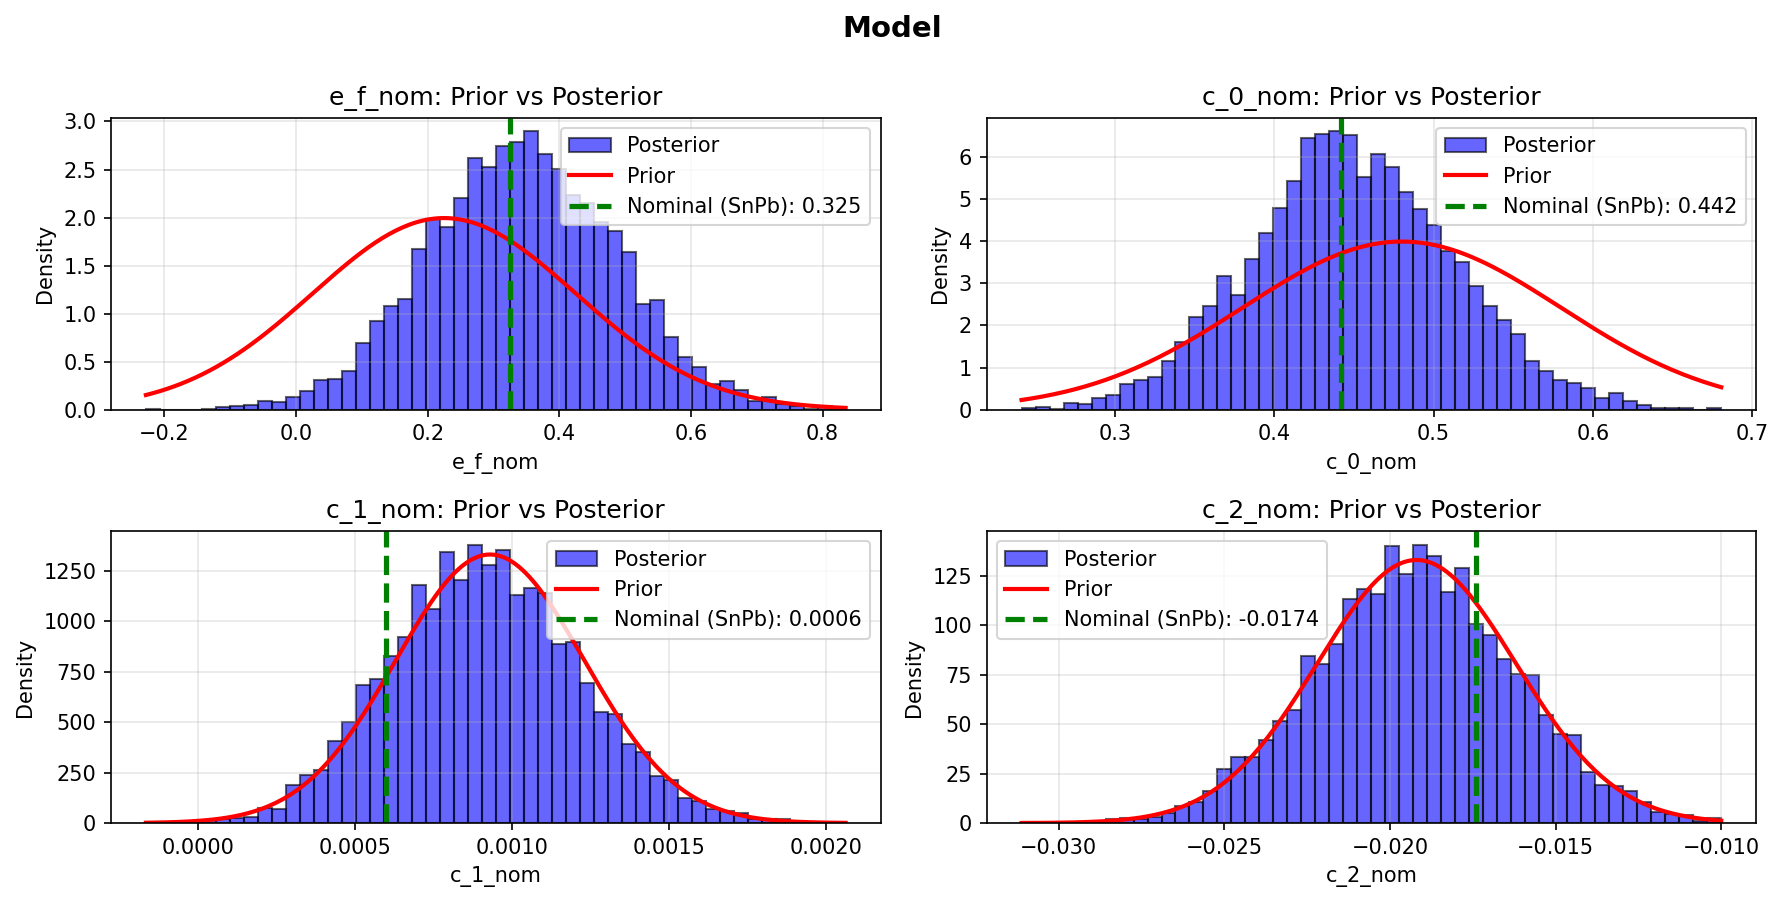
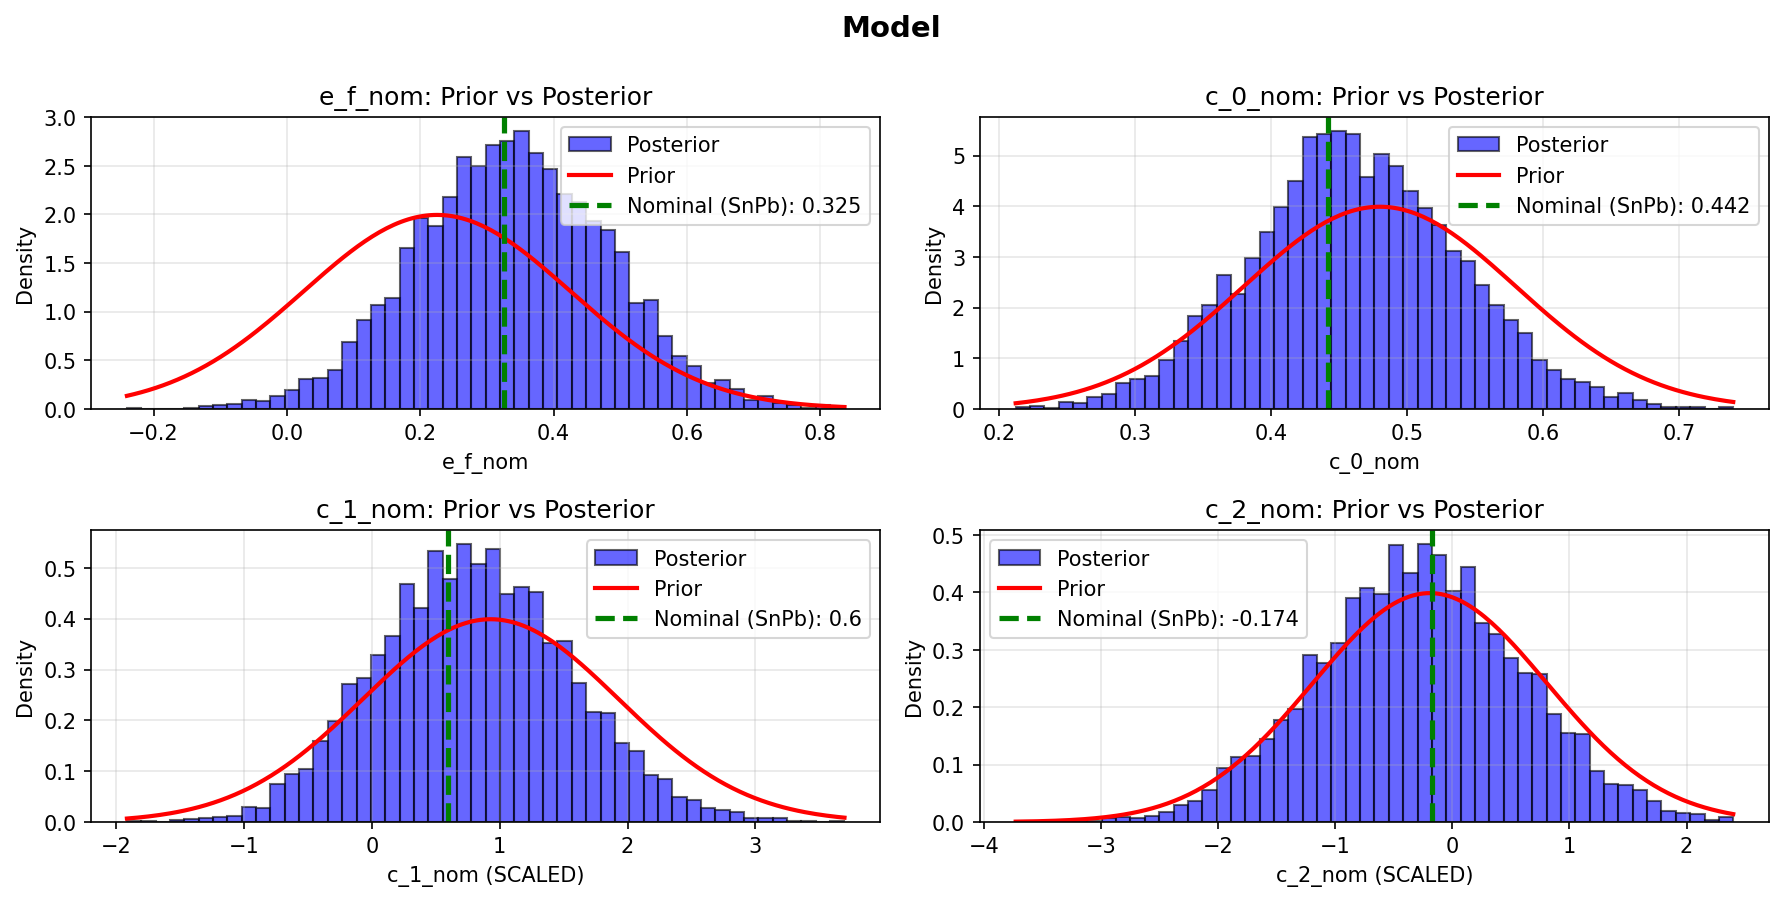
priors all fitting!!!!!

diff --git a/demos/hybrid_bonding/thermomech.py b/demos/hybrid_bonding/thermomech.py
@@ -31,12 +31,19 @@ import stratcona
 # Plan for this code --> just use parameters from one of the types of solder to set-up a model
 # Then try to figure out parameters that work for hybrid bonding set-up... later problem!
 
-
 def hybrid_bonding_thermomech():
     """
     Fit Engelmaier thermomechanical fatigue model to hybrid bonding data.
     Modify the prior dictionaries below to test different parameter constraints.
     """
+    ###################################################################################
+    # Fitting Settings
+    ###################################################################################
+    USE_SCALED_PRIORS = 1
+    if USE_SCALED_PRIORS:
+        print("Using SCALED priors (c_1 and c_2 scaled up for better numerical stability)")
+    
+
     ##########################################
     # My Fabricated Experimental Data Here
     ###########################################
@@ -48,8 +55,8 @@ def hybrid_bonding_thermomech():
     delta_D_data_cond1 = jnp.array([pt[0] for pt in delta_D_Nfdata_cond1])
     Nf_data_cond1 = jnp.array([pt[1] for pt in delta_D_Nfdata_cond1])
     
-    # Condition 2: T_sj=100, t_D=600
-    delta_D_Nfdata_cond2 = [[0.14805947244167328, 10.0], [0.04749132692813873, 100.0], [0.015233243815600872, 1000.0], [0.004886191338300705, 10000.0], [0.001567287021316588, 100000.0], [0.0005027205334044993, 1000000.0]]
+    # Condition 2: T_sj=150, t_D=600
+    delta_D_Nfdata_cond2 = delta_D_Nfdata_cond2 = [[0.13533349335193634, 10.0], [0.04051196575164795, 100.0], [0.012127222493290901, 1000.0], [0.003630273975431919, 10000.0], [0.0010867195669561625, 100000.0], [0.0003253085887990892, 1000000.0]]
     delta_D_data_cond2 = jnp.array([pt[0] for pt in delta_D_Nfdata_cond2])
     Nf_data_cond2 = jnp.array([pt[1] for pt in delta_D_Nfdata_cond2])
 
@@ -81,10 +88,17 @@ def hybrid_bonding_thermomech():
     
     e_f_prior = {'loc': 0.225, 'scale': 0.2}      # fatigue ductility coefficient
     c_0_prior = {'loc': 0.480, 'scale': 0.1}       # base fatigue exponent 
-    c_1_prior = {'loc': 9.30e-04, 'scale': 3E-04}   # temperature coefficient 
-    c_2_prior = {'loc': -1.92e-02, 'scale': 3E-03} # dwell time coefficient 
-    # c_1_prior = {'loc': 0.93, 'scale': 0.3}   # SCALED: temperature coefficient 
-    # c_2_prior = {'loc': -0.192, 'scale': 0.3}  # SCALED: dwell time coefficient 
+    c_1_prior_default = {'loc': 9.30e-04, 'scale': 1E-03}   # temperature coefficient 
+    c_2_prior_default = {'loc': -1.92e-02, 'scale': 1E-01} # dwell time coefficient 
+    c_1_prior_scaled = {'loc': 9.30E-04*1E3, 'scale': 1E-03*1E3}   # SCALED: temperature coefficient 
+    c_2_prior_scaled = {'loc': -1.92e-02*1E1, 'scale': 1E-01*1E1}  # SCALED: dwell time coefficient 
+
+    if USE_SCALED_PRIORS:
+        c_1_prior = c_1_prior_scaled
+        c_2_prior = c_2_prior_scaled
+    else:
+        c_1_prior = c_1_prior_default
+        c_2_prior = c_2_prior_default
 
     print(f"  e_f:     loc={e_f_prior['loc']}, scale={e_f_prior['scale']}")
     print(f"  c_0:     loc={c_0_prior['loc']}, scale={c_0_prior['scale']}")
@@ -95,6 +109,11 @@ def hybrid_bonding_thermomech():
     # caution: values are not clipped or restricted!
     def calc_engelmaier(e_f, c_0, c_1, c_2, t_0, T_sj, t_D, delta_D):
         m =  c_0 + c_1*T_sj + c_2*jnp.log(1 + t_0 / t_D) 
+        N_f_50 = 0.5*jnp.power(2*e_f/delta_D, 1/m)
+        return N_f_50
+    
+    def calc_engelmaier_scaled(e_f, c_0, c_1, c_2, t_0, T_sj, t_D, delta_D):
+        m =  c_0 + c_1*1E-3*T_sj + c_2*1E-1*jnp.log(1 + t_0 / t_D) 
         N_f_50 = 0.5*jnp.power(2*e_f/delta_D, 1/m)
         return N_f_50
     
@@ -137,7 +156,10 @@ def hybrid_bonding_thermomech():
     mb.add_latent('c_2', nom='c_2_nom')
     
     # using a log since the range of Nf data is very large
-    mb.add_intermediate('log_engelmaier_nf', calc_log_engelmaier)
+    if USE_SCALED_PRIORS:
+        mb.add_intermediate('log_engelmaier_nf', calc_log_engelmaier_scaled)
+    else:
+        mb.add_intermediate('log_engelmaier_nf', calc_log_engelmaier)
 
     mb.add_observed(
         'nf_delta_D',
@@ -162,11 +184,11 @@ def hybrid_bonding_thermomech():
         test_conds[test_name] = {'lot': 1, 'chp': 1}
         cond_params[test_name] = {'T_sj': 50, 't_D': 600, 'delta_D': float(delta_D_val)}
     
-    # Condition 2: T_sj=100, t_D=600
+    # Condition 2: T_sj=150, t_D=600
     for i, delta_D_val in enumerate(delta_D_data_cond2):
         test_name = f'cond2_test_{i}'
         test_conds[test_name] = {'lot': 1, 'chp': 1}
-        cond_params[test_name] = {'T_sj': 100, 't_D': 600, 'delta_D': float(delta_D_val)}
+        cond_params[test_name] = {'T_sj': 150, 't_D': 600, 'delta_D': float(delta_D_val)}
     
     # Condition 3: T_sj=40, t_D=300
     for i, delta_D_val in enumerate(delta_D_data_cond3):
@@ -240,10 +262,16 @@ def hybrid_bonding_thermomech():
     Nf_hb_all = []
     
     for i in range(n_samples_posterior):
-        Nf_hb = calc_engelmaier(
-            e_f_samples[i], c_0_samples[i], c_1_samples[i], c_2_samples[i],
-            t_0, T_sj, t_D, delta_D_range
-        )
+        if USE_SCALED_PRIORS:
+            Nf_hb = calc_engelmaier_scaled(
+                e_f_samples[i], c_0_samples[i], c_1_samples[i], c_2_samples[i],
+                t_0, T_sj, t_D, delta_D_range
+            )
+        else:
+            Nf_hb = calc_engelmaier(
+                e_f_samples[i], c_0_samples[i], c_1_samples[i], c_2_samples[i],
+                t_0, T_sj, t_D, delta_D_range
+            )
         Nf_hb_all.append(Nf_hb)
     
     Nf_hb_all = jnp.stack(Nf_hb_all)
@@ -275,10 +303,16 @@ def hybrid_bonding_thermomech():
     
     # Calculate deterministic prediction using posterior means
     # recall calc_engelmaier currently does not clip inf values
-    mean_pred_hb = calc_engelmaier(
-        e_f_mean, c_0_mean, c_1_mean, c_2_mean,
-        t_0, T_sj, t_D, delta_D_range
-    )
+    if USE_SCALED_PRIORS:
+        mean_pred_hb = calc_engelmaier_scaled(
+            e_f_mean, c_0_mean, c_1_mean, c_2_mean,
+            t_0, T_sj, t_D, delta_D_range
+        )
+    else:
+        mean_pred_hb = calc_engelmaier(
+            e_f_mean, c_0_mean, c_1_mean, c_2_mean,
+            t_0, T_sj, t_D, delta_D_range
+        )
     
     print(f"\nPosterior mean parameters:")
     print(f"  e_f: {e_f_mean:.6f}")
@@ -480,12 +514,22 @@ def hybrid_bonding_thermomech():
     }
     
     # Expected nominal values from SnPb solder data
-    nominal_values = {
-        'e_f_nom': 0.325,
-        'c_0_nom': 0.442,
-        'c_1_nom': 6.00e-04,
-        'c_2_nom': -1.74e-02
-    }
+    if USE_SCALED_PRIORS:
+        nominal_values = {
+            'e_f_nom': 0.325,
+            'c_0_nom': 0.442,
+            'c_1_nom': 6.00e-04*1E3,
+            'c_2_nom': -1.74e-02*1E1
+        }
+    else:
+        nominal_values = {
+            'e_f_nom': 0.325,
+            'c_0_nom': 0.442,
+            'c_1_nom': 6.00e-04,
+            'c_2_nom': -1.74e-02
+        }
+        
+
 
     n_vars = len(posterior_samples)
     fig, axes = plt.subplots((n_vars + 1) // 2, 2, figsize=(12, 3 * ((n_vars + 1) // 2)))
@@ -511,6 +555,8 @@ def hybrid_bonding_thermomech():
         
         ax.set_xlabel(hyl_name)
         ax.set_ylabel('Density')
+        if USE_SCALED_PRIORS and hyl_name in ['c_1_nom', 'c_2_nom']:
+            ax.set_xlabel(f"{hyl_name} (SCALED)")
         ax.set_title(f'{hyl_name}: Prior vs Posterior')
         ax.legend()
         ax.grid(True, alpha=0.3)

diff --git a/demos/hybrid_bonding/datagen_thermomech.py b/demos/hybrid_bonding/datagen_thermomech.py
@@ -58,13 +58,13 @@ def generate_data():
         delta_D_cond1.append(float(delta_d))
         print(f"  N_f={nf:.0e} -> delta_D={float(delta_d):.6f}")
     
-    # Condition 2: T_sj=100, t_D=600
-    print("\nCondition 2: T_sj=100, t_D=600")
+    # Condition 2: T_sj=150, t_D=600
+    print("\nCondition 2: T_sj=150, t_D=600")
     delta_D_cond2 = []
     for nf in target_Nf:
         delta_d = calc_delta_D(
             snpb_nom["e_f"], snpb_nom["c_0"], snpb_nom["c_1"], snpb_nom["c_2"],
-            snpb_nom["t_0"], T_sj=100, t_D=600, N_f_target=nf
+            snpb_nom["t_0"], T_sj=150, t_D=600, N_f_target=nf
         )
         delta_D_cond2.append(float(delta_d))
         print(f"  N_f={nf:.0e} -> delta_D={float(delta_d):.6f}")
@@ -83,7 +83,7 @@ def generate_data():
     print("\nData for thermomech.py:")
     print("Condition 1: T_sj=50, t_D=600")
     print(f"delta_D_Nfdata_cond1 = {[[delta_D_cond1[i], float(target_Nf[i])] for i in range(len(target_Nf))]}")
-    print("\nCondition 2: T_sj=100, t_D=600")
+    print("\nCondition 2: T_sj=150, t_D=600")
     print(f"delta_D_Nfdata_cond2 = {[[delta_D_cond2[i], float(target_Nf[i])] for i in range(len(target_Nf))]}")
     print("\nCondition 3: T_sj=40, t_D=300")
     print(f"delta_D_Nfdata_cond3 = {[[delta_D_cond3[i], float(target_Nf[i])] for i in range(len(target_Nf))]}")
